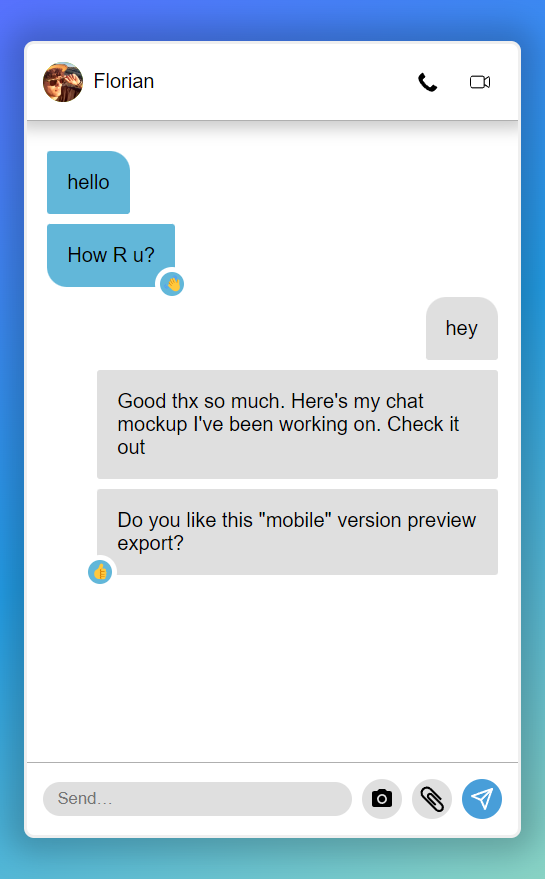
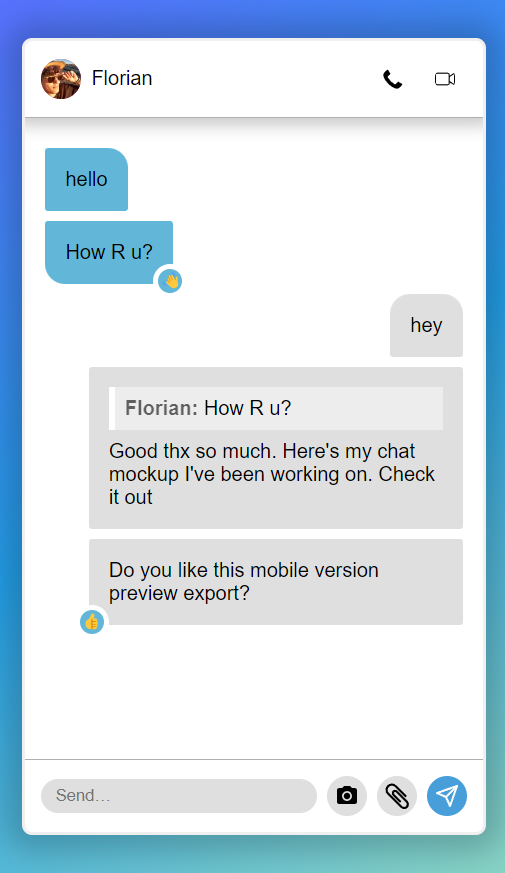
Update Updated the following: - JS engine to add the "cite responded to message", - CSS to style the mentionned message display, - README to include info and screenshot of the update

diff --git a/Style/Stylesheet.css b/Style/Stylesheet.css
@@ -19,10 +19,13 @@ body {
 	align-items: center;
 	justify-content: center;
 	box-shadow: 0rem 0rem 1.5rem 0.8rem rgba(0, 0, 0, 0.2);
-	background: linear-gradient(149deg,
-			rgba(87, 113, 254, 1) 0%,
-			rgba(35, 158, 231, 1) 50%,
-			rgba(137, 211, 196, 1) 100%);
+	background: linear-gradient(
+		149deg,
+		rgba(87, 113, 254, 1) 0%,
+		rgba(35, 158, 231, 1) 50%,
+		rgba(137, 211, 196, 1) 100%
+	);
+	gap: 1rem;
 }
 
 .container {
@@ -44,7 +47,7 @@ body {
 	}
 }
 
-.profilePic>img {
+.profilePic > img {
 	width: 2rem;
 	border-radius: 1rem;
 }
@@ -55,7 +58,7 @@ body {
 	box-shadow: var(--box-shadow-small);
 }
 
-.topBar>p {
+.topBar > p {
 	margin: 0;
 }
 
@@ -81,7 +84,7 @@ body {
 	justify-content: flex-end;
 }
 
-.contactAction>svg {
+.contactAction > svg {
 	cursor: pointer;
 	transition: var(--transition-main);
 	padding: 0.6rem;
@@ -92,7 +95,7 @@ body {
 	border-radius: 1rem;
 }
 
-.contactAction>svg:hover {
+.contactAction > svg:hover {
 	background-color: var(--light-grey);
 }
 
@@ -150,15 +153,15 @@ input[type="text"]:focus {
 	background-color: var(--light-grey);
 }
 
-.screenshot>svg {
+.screenshot > svg {
 	width: 1.2rem;
 }
 
-.attach>svg {
+.attach > svg {
 	width: 1.5rem;
 }
 
-.send>svg {
+.send > svg {
 	width: 1.2rem;
 }
 
@@ -188,7 +191,7 @@ input[type="text"]:focus {
 	overflow: hidden;
 }
 
-.profilePic>p {
+.profilePic > p {
 	margin: 0;
 	font-weight: bold;
 	font-size: 1.2rem;
@@ -205,8 +208,8 @@ input[type="text"]:focus {
 	position: relative;
 }
 
-.inBubble>p,
-.outBubble>p {
+.inBubble > p,
+.outBubble > p {
 	margin: 0;
 	padding: 0;
 }
@@ -263,14 +266,50 @@ input[type="text"]:focus {
 	background-color: #dfdfdf;
 }
 
-.inBubble>.emojiReaction {
+.inBubble > .emojiReaction {
 	position: absolute;
 	bottom: -0.7rem;
 	right: -0.7rem;
 }
 
-.outBubble>.emojiReaction {
+.outBubble > .emojiReaction {
 	position: absolute;
 	bottom: -0.7rem;
 	left: -0.7rem;
+}
+
+/* Responded to message mention styling */
+.inBubble > a,
+.outBubble > a {
+	text-decoration: none;
+	color: unset;
+}
+
+.messageMention {
+	background-color: #ffffff6e;
+	padding: 0.5rem;
+	border-left: solid 0.3rem white;
+	margin-bottom: 0.5rem;
+}
+
+.inBubble:not([class*=" "]) > a > .messageMention {
+	border-top-right-radius: 0.5rem;
+}
+
+.outBubble:not([class*=" "]) > a > .messageMention {
+	border-top-left-radius: 0.5rem;
+}
+
+.messageStackFirst > a > .messageMention {
+	border-top-right-radius: 0.5rem;
+	border-top-left-radius: 0.5rem;
+}
+
+.messageMention > div > p {
+	margin: 0;
+}
+
+span.mentionnedSender {
+	font-weight: bold;
+	filter: opacity(0.6);
 }

diff --git a/JS/engine/input_processing_engine.js b/JS/engine/input_processing_engine.js
@@ -36,6 +36,7 @@ function inputMessage() {
 function updatedJsonParse(json) {
 	let body = document.querySelector(".conversationBody");
 	body.innerHTML = "";
+	let messageMap = [];
 
 	for (let [key, value] of Object.entries(json.messages)) {
 		for (let direction of ["in", "out"]) {
@@ -43,6 +44,8 @@ function updatedJsonParse(json) {
 				value[direction].forEach((messageData, index) => {
 					let bubble = document.createElement("div");
 					bubble.classList.add(`${direction}Bubble`);
+					bubble.setAttribute("id", `${key}${direction}${index}`);
+					messageMap[key + direction + index] = messageData.message;
 
 					if (index === 0) {
 						bubble.classList.add("messageStackFirst");
@@ -52,6 +55,37 @@ function updatedJsonParse(json) {
 					}
 					if (index > 0 && index < value[direction].length - 1) {
 						bubble.classList.add("messageStackBetween");
+					}
+
+					// Check if there's a responds_to property
+					// Check if there's a responds_to property
+					if (messageData.responds_to) {
+						let [
+							respondsToIndex,
+							respondsToDirection,
+							respondsToMessageIndex
+						] = messageData.responds_to;
+						let referencedMessageId = `${respondsToIndex}${respondsToDirection}${respondsToMessageIndex}`;
+
+						let link = document.createElement("a");
+						link.href = `#${referencedMessageId}`;
+						link.setAttribute("id", `${key}${direction}${index}`);
+
+						let messageMention = document.createElement("div");
+						messageMention.classList.add("messageMention");
+
+						let referencedMessageText = messageMap[referencedMessageId];
+						let messageMentionText = document.createElement("div");
+						messageMentionText.innerHTML =
+							(respondsToDirection == "in"
+								? `<p><span class="mentionnedSender">${json.contact}:</span> `
+								: "You: ") +
+							referencedMessageText +
+							"</p>";
+
+						messageMention.appendChild(messageMentionText);
+						link.appendChild(messageMention);
+						bubble.appendChild(link);
 					}
 
 					let p = document.createElement("p");

diff --git a/README.md b/README.md
@@ -17,6 +17,10 @@ The json file contains several properties:*
             - The elements of the array are defined as follow (migth be subjected to changes):
                 - message: value can be any message you want
                 - emoji: let you define whether someone reacted to the message using an emoji which will be displayed
+                - (NEW) responds_to: lets you define if the message responds to another in order to display it accordingly. It is an array:
+                    - First is the messages property index
+                    - next comes the direction
+                    - finally the index of the message (starts from 0)
 
 ### example
 ```
@@ -44,10 +48,11 @@ The json file contains several properties:*
                 },
                 {
                     "message": "Good thx so much. Here's my chat mockup I've been working on. Check it out",
-                    "emoji": null
+                    "emoji": null,
+                    "responds_to": [0, "in", 1]
                 },
                 {
-                    "message": "Do you like this large version preview export?",
+                    "message": "Do you like this mobile version preview export?",
                     "emoji": "👍"
                 }
             ]
